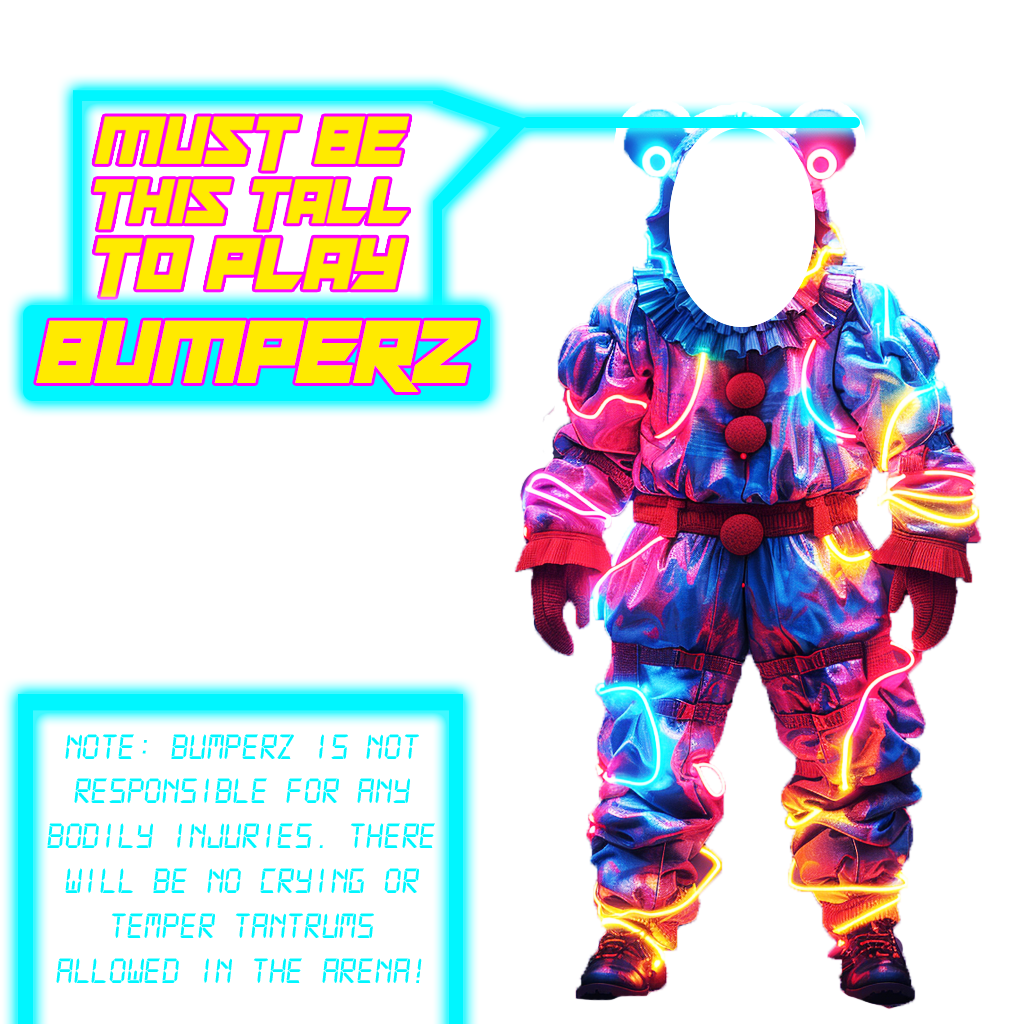
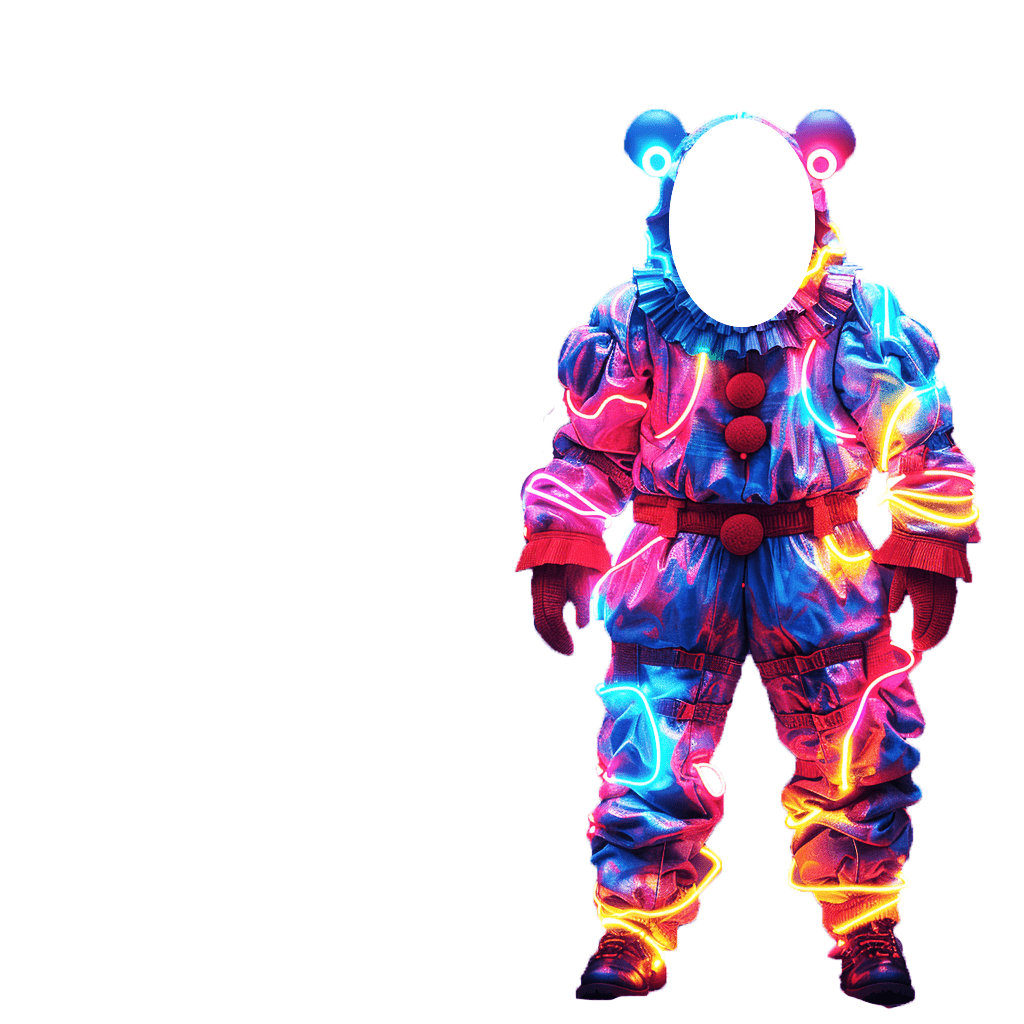
update: tall signs and disclaimer sign updated

diff --git a/dcl/src/arena/setupImagePosters.ts b/dcl/src/arena/setupImagePosters.ts
@@ -3,14 +3,14 @@ import { Vector3, Quaternion, Color4, Color3 }	from "@dcl/sdk/math";
 
 export function setupImagePosters(){
 
-    const tallPoster = engine.addEntity()
-    Transform.create(tallPoster, {
+    const tallPoster1 = engine.addEntity()
+    Transform.create(tallPoster1, {
         position: Vector3.create(61, 1.15, 36),
         scale: Vector3.create(2.25,2.25,2.25),
         rotation: Quaternion.fromEulerDegrees(0,-60,0)
     })
-    MeshRenderer.setPlane(tallPoster)
-    Material.setPbrMaterial(tallPoster, {
+    MeshRenderer.setPlane(tallPoster1)
+    Material.setPbrMaterial(tallPoster1, {
         texture: Material.Texture.Common({
           src: 'images/talSign.png',
         }),
@@ -21,6 +21,25 @@ export function setupImagePosters(){
         emissiveColor: Color3.White(),
         emissiveIntensity: 1
     })
+    const tallPoster1b = engine.addEntity()
+    Transform.create(tallPoster1b, {
+        position: Vector3.create(61.1, 1.73, 35.5),
+        scale: Vector3.create(2.25,2.25,2.25),
+        rotation: Quaternion.fromEulerDegrees(0,-60,0)
+    })
+    MeshRenderer.setPlane(tallPoster1b)
+    Material.setPbrMaterial(tallPoster1b, {
+        texture: Material.Texture.Common({
+          src: 'images/talSign2.png',
+        }),
+        emissiveTexture: Material.Texture.Common({
+            src: 'images/talSign2.png',
+        }),
+        transparencyMode: MaterialTransparencyMode.MTM_ALPHA_TEST,
+        emissiveColor: Color3.White(),
+        emissiveIntensity: 1
+    })
+
     const tallPoster2 = engine.addEntity()
     Transform.create(tallPoster2, {
         position: Vector3.create(3, 1.15, 28),
@@ -34,6 +53,24 @@ export function setupImagePosters(){
         }),
         emissiveTexture: Material.Texture.Common({
             src: 'images/talSign.png',
+        }),
+        transparencyMode: MaterialTransparencyMode.MTM_ALPHA_TEST,
+        emissiveColor: Color3.White(),
+        emissiveIntensity: 1
+    })
+    const tallPoster2b = engine.addEntity()
+    Transform.create(tallPoster2b, {
+        position: Vector3.create(3.1, 1.73, 28.5),
+        scale: Vector3.create(2.25,2.25,2.25),
+        rotation: Quaternion.fromEulerDegrees(0,120,0)
+    })
+    MeshRenderer.setPlane(tallPoster2b)
+    Material.setPbrMaterial(tallPoster2b, {
+        texture: Material.Texture.Common({
+          src: 'images/talSign2.png',
+        }),
+        emissiveTexture: Material.Texture.Common({
+            src: 'images/talSign2.png',
         }),
         transparencyMode: MaterialTransparencyMode.MTM_ALPHA_TEST,
         emissiveColor: Color3.White(),
@@ -70,6 +107,42 @@ export function setupImagePosters(){
         }),
         emissiveTexture: Material.Texture.Common({
             src: 'images/howTo.png',
+        }),
+        transparencyMode: MaterialTransparencyMode.MTM_ALPHA_TEST,
+        emissiveColor: Color3.White(),
+        emissiveIntensity: 1
+    })
+    const disclaimer1 = engine.addEntity()
+    Transform.create(disclaimer1, {
+        position: Vector3.create(7.46, 3.5, 35),
+        scale: Vector3.create(3,3,3),
+        rotation: Quaternion.fromEulerDegrees(0,0,0)
+    })
+    MeshRenderer.setPlane(disclaimer1)
+    Material.setPbrMaterial(disclaimer1, {
+        texture: Material.Texture.Common({
+          src: 'images/disclaimer1.png',
+        }),
+        emissiveTexture: Material.Texture.Common({
+            src: 'images/disclaimer1.png',
+        }),
+        transparencyMode: MaterialTransparencyMode.MTM_ALPHA_TEST,
+        emissiveColor: Color3.White(),
+        emissiveIntensity: 1
+    })
+    const disclaimer2 = engine.addEntity()
+    Transform.create(disclaimer2, {
+        position: Vector3.create(57, 3.5, 29),
+        scale: Vector3.create(3,3,3),
+        rotation: Quaternion.fromEulerDegrees(0,180,0)
+    })
+    MeshRenderer.setPlane(disclaimer2)
+    Material.setPbrMaterial(disclaimer2, {
+        texture: Material.Texture.Common({
+          src: 'images/disclaimer1.png',
+        }),
+        emissiveTexture: Material.Texture.Common({
+            src: 'images/disclaimer1.png',
         }),
         transparencyMode: MaterialTransparencyMode.MTM_ALPHA_TEST,
         emissiveColor: Color3.White(),
